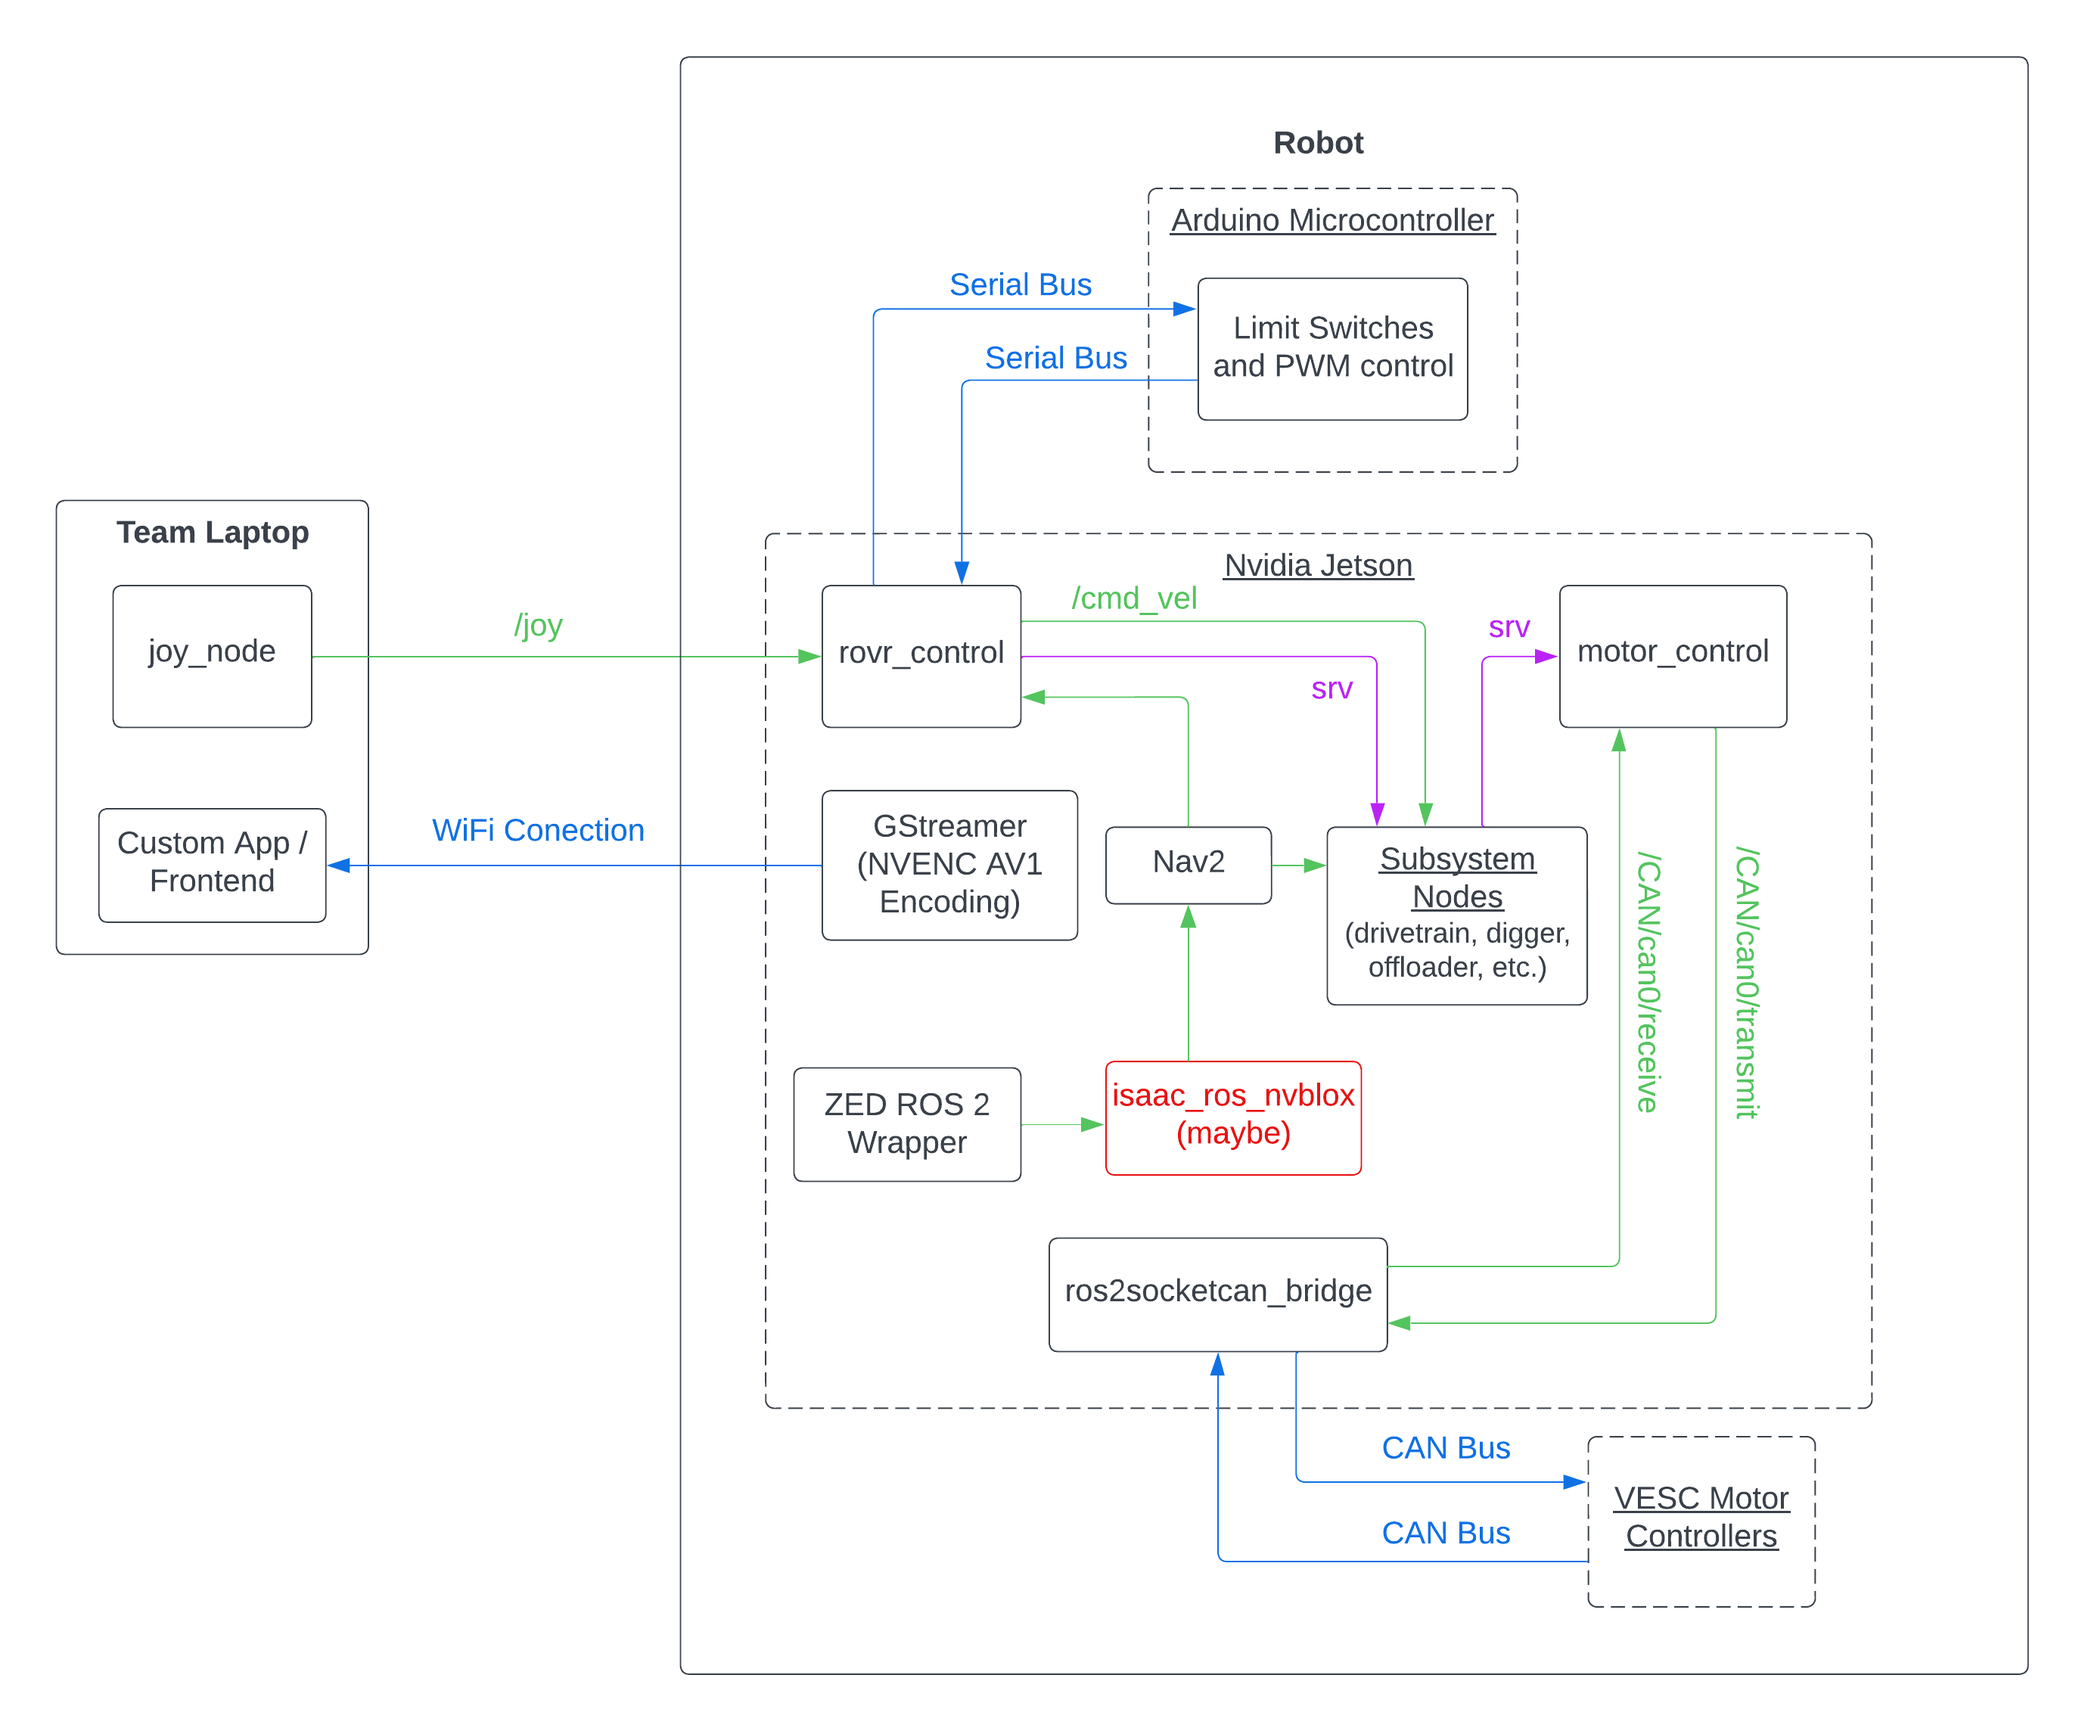
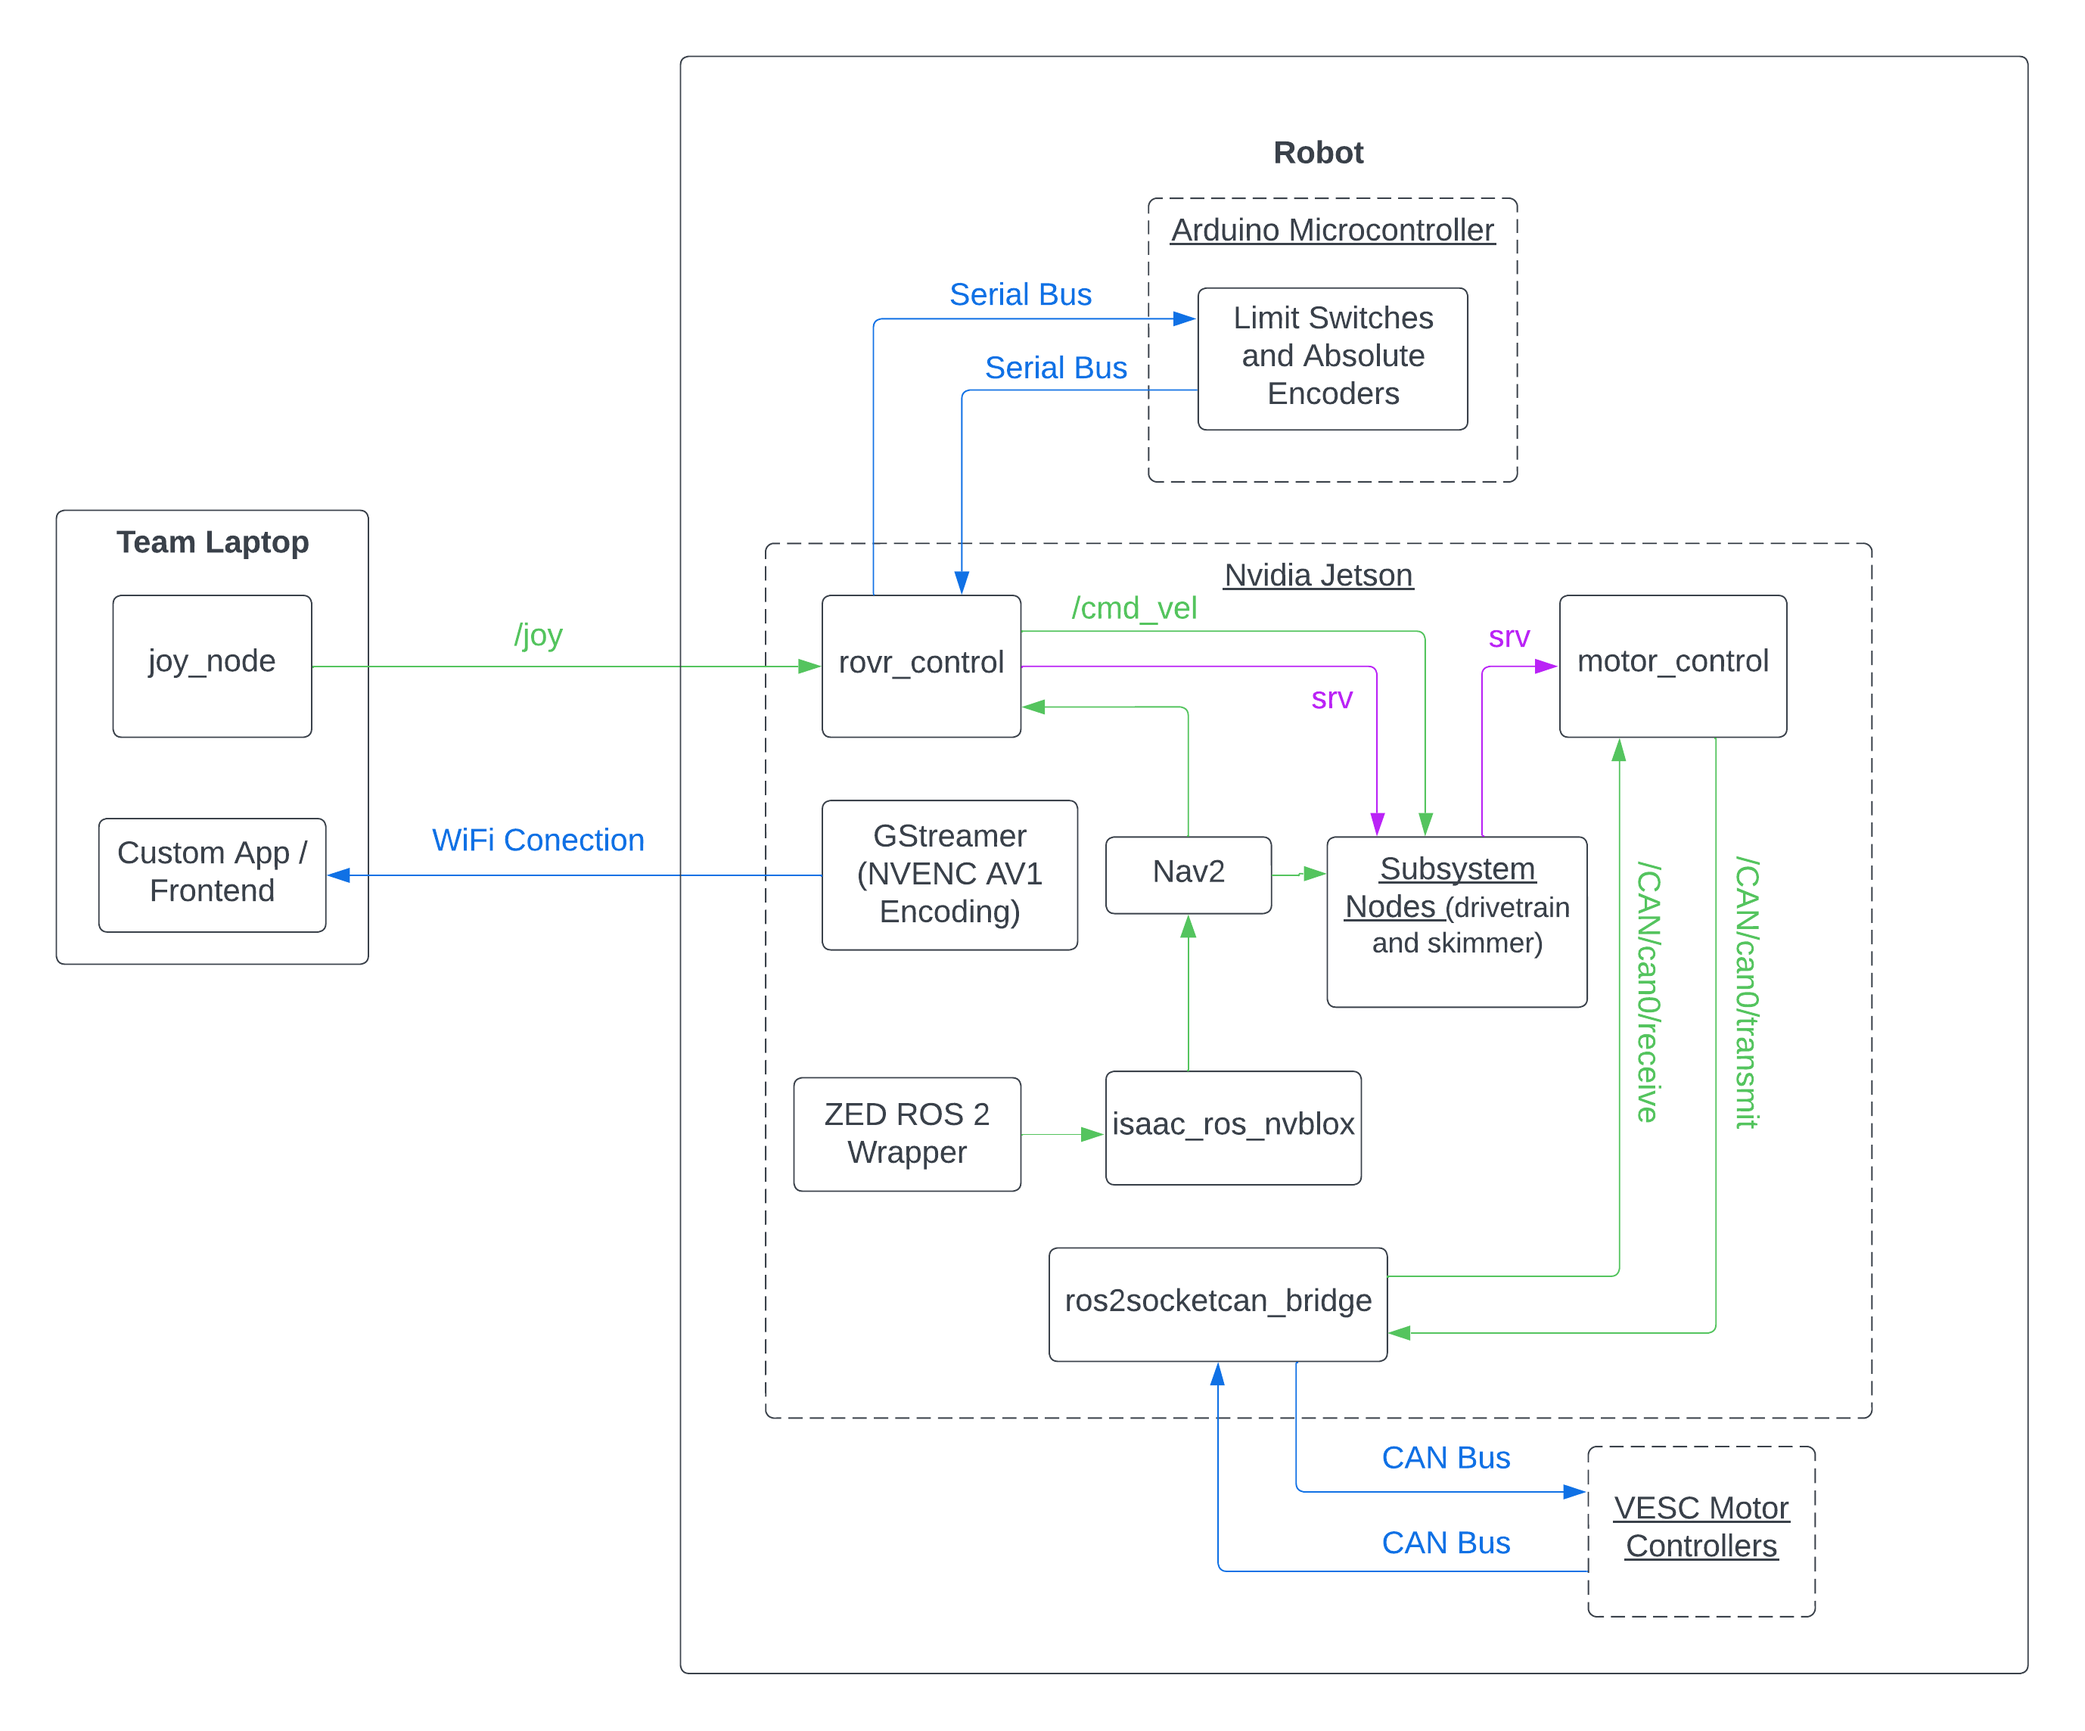
Updated the control flow diagram and README

diff --git a/README.md b/README.md
@@ -75,7 +75,7 @@ Make sure to `source install/setup.bash` in every new terminal.
 
 Run `rosdep install -i --from-path src --rosdistro $ROS_DISTRO -y --skip-keys "nvblox"` to install package dependencies.
 
-Run `rm -r build install log` to clean your workspace.
+Run `rm -rf build install log` to clean your workspace.
 
 To normalize line endings in git, use the command:
 ```
